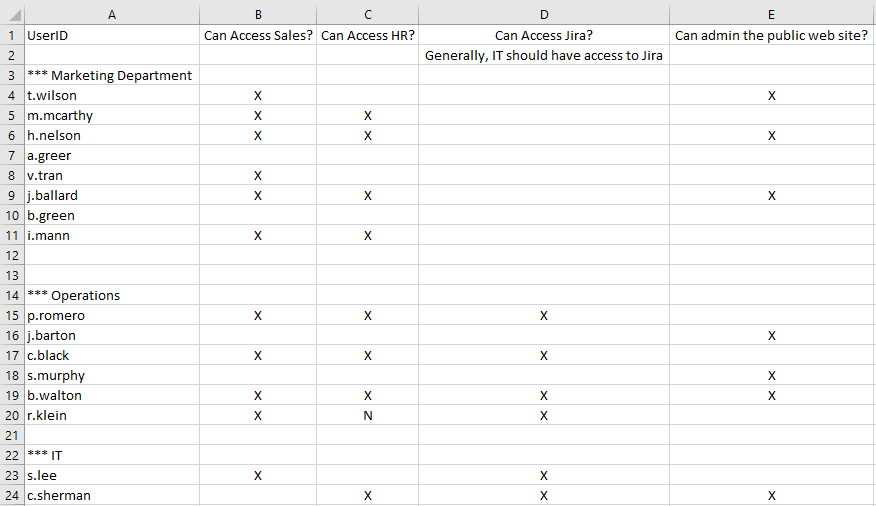
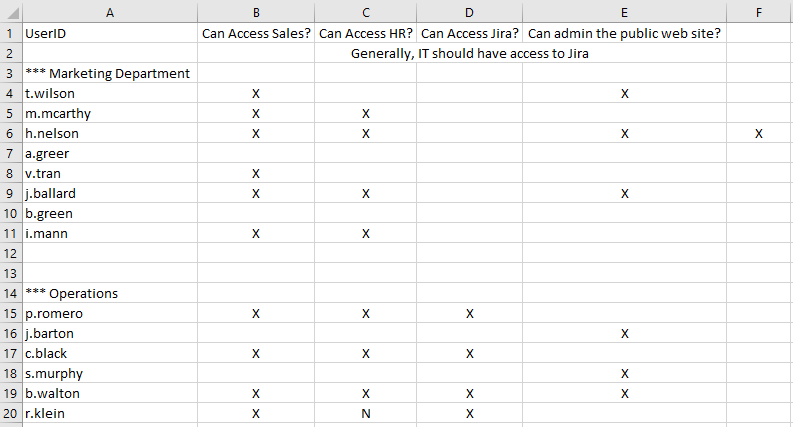
Properly deal with unknown permissions in the refactoring exercise

diff --git a/src/main/java/solutions/refactoring/AwfulScriptGeneratorRefactoredStep3.java b/src/main/java/solutions/refactoring/AwfulScriptGeneratorRefactoredStep3.java
@@ -1,6 +1,7 @@
 package solutions.refactoring;
 
 import java.util.List;
+import java.util.Optional;
 import java.util.stream.Collectors;
 import java.util.stream.Stream;
 
@@ -43,11 +44,13 @@ public class AwfulScriptGeneratorRefactoredStep3 implements ScriptGenerator {
     private Stream<String> getInsertStatementsForRow(Row row, String userId) {
         return Utils.stream(row)
                 .skip(1)
-                .filter(this::hasAuthority)
-                .map(c -> getInsertStatementForCell(userId, c));
+                .filter(this::hasAuthority)  // Stream<String>
+                .map(c -> getInsertStatementForCell(userId, c)) // Stream<Optional<String>>
+                .filter(Optional::isPresent)  // filter out empties, still Stream<Optional<String>>
+                .map(Optional::get);  // Stream<String>
     }
 
-    private String getInsertStatementForCell(String userId, Cell cell) {
+    private Optional<String> getInsertStatementForCell(String userId, Cell cell) {
         String answer = null;
         switch (cell.getColumnIndex()) {
         case 1:
@@ -64,7 +67,7 @@ public class AwfulScriptGeneratorRefactoredStep3 implements ScriptGenerator {
             break;
         }
         
-        return answer;
+        return Optional.ofNullable(answer);
     }
     
     private boolean hasAuthority(Cell cell) {

diff --git a/src/main/java/solutions/refactoring/AwfulScriptGeneratorRefactoredStep4.java b/src/main/java/solutions/refactoring/AwfulScriptGeneratorRefactoredStep4.java
@@ -1,6 +1,7 @@
 package solutions.refactoring;
 
 import java.util.List;
+import java.util.Optional;
 import java.util.stream.Collectors;
 import java.util.stream.Stream;
 
@@ -39,10 +40,12 @@ public class AwfulScriptGeneratorRefactoredStep4 implements ScriptGenerator {
         return Utils.stream(row)
                 .skip(1)
                 .filter(this::hasAuthority)
-                .map(c -> getInsertStatementForCell(userId, c));
+                .map(c -> getInsertStatementForCell(userId, c))
+                .filter(Optional::isPresent)
+                .map(Optional::get);
     }
 
-    private String getInsertStatementForCell(String userId, Cell cell) {
+    private Optional<String> getInsertStatementForCell(String userId, Cell cell) {
         String answer = null;
         switch (cell.getColumnIndex()) {
         case 1:
@@ -59,7 +62,7 @@ public class AwfulScriptGeneratorRefactoredStep4 implements ScriptGenerator {
             break;
         }
         
-        return answer;
+        return Optional.ofNullable(answer);
     }
     
     private boolean hasValidUserId(Row row) {

diff --git a/src/main/java/solutions/refactoring/AwfulScriptGeneratorRefactoredStep2.java b/src/main/java/solutions/refactoring/AwfulScriptGeneratorRefactoredStep2.java
@@ -2,6 +2,7 @@ package solutions.refactoring;
 
 import java.util.ArrayList;
 import java.util.List;
+import java.util.Optional;
 
 import org.apache.poi.ss.usermodel.Cell;
 import org.apache.poi.ss.usermodel.Row;
@@ -52,13 +53,13 @@ public class AwfulScriptGeneratorRefactoredStep2 implements ScriptGenerator {
             }
 
             if (hasAuthority(cell)) {
-                lines.add(getInsertStatementForCell(userId, cell));
+                getInsertStatementForCell(userId, cell).ifPresent(st -> lines.add(st));
             }
         }
         return lines;
     }
 
-    private String getInsertStatementForCell(String userId, Cell cell) {
+    private Optional<String> getInsertStatementForCell(String userId, Cell cell) {
         String answer = null;
         switch (cell.getColumnIndex()) {
         case 1:
@@ -75,7 +76,7 @@ public class AwfulScriptGeneratorRefactoredStep2 implements ScriptGenerator {
             break;
         }
         
-        return answer;
+        return Optional.ofNullable(answer);
     }
     
     private boolean hasAuthority(Cell cell) {

diff --git a/src/main/java/solutions/refactoring/AwfulScriptGeneratorRefactoredStep5.java b/src/main/java/solutions/refactoring/AwfulScriptGeneratorRefactoredStep5.java
@@ -39,10 +39,12 @@ public class AwfulScriptGeneratorRefactoredStep5 implements ScriptGenerator {
         return Utils.stream(row)
                 .skip(1)
                 .filter(this::hasAuthority)
-                .map(c -> getInsertStatementForCell(userId, c));
+                .map(c -> getInsertStatementForCell(userId, c))
+                .filter(Optional::isPresent)
+                .map(Optional::get);
     }
 
-    private String getInsertStatementForCell(String userId, Cell cell) {
+    private Optional<String> getInsertStatementForCell(String userId, Cell cell) {
         String answer = null;
         switch (cell.getColumnIndex()) {
         case 1:
@@ -59,7 +61,7 @@ public class AwfulScriptGeneratorRefactoredStep5 implements ScriptGenerator {
             break;
         }
         
-        return answer;
+        return Optional.ofNullable(answer);
     }
     
     private Optional<Cell> getFirstCell(Row row) {

diff --git a/src/main/java/solutions/refactoring/AwfulScriptGeneratorRefactoredStep6.java b/src/main/java/solutions/refactoring/AwfulScriptGeneratorRefactoredStep6.java
@@ -56,11 +56,14 @@ public class AwfulScriptGeneratorRefactoredStep6 implements ScriptGenerator {
         return Utils.stream(row)
                 .skip(1)
                 .filter(this::hasAuthority)
-                .map(c -> getInsertStatementForCell(userId, c));
+                .map(c -> getInsertStatementForCell(userId, c))
+                .filter(Optional::isPresent)
+                .map(Optional::get);
     }
 
-    private String getInsertStatementForCell(String userId, Cell cell) {
-        return insertBuilderForCells.get(cell.getColumnIndex()).apply(userId);
+    private Optional<String> getInsertStatementForCell(String userId, Cell cell) {
+        return Optional.ofNullable(insertBuilderForCells.get(cell.getColumnIndex()))
+                .map(f -> f.apply(userId));
     }
     
     private Optional<Cell> getFirstCell(Row row) {

diff --git a/docs/refactoringExercise.md b/docs/refactoringExercise.md
@@ -30,7 +30,7 @@ Our product owner created a spreadsheet containing information about which user 
 As you can see, the spreadsheet isn't completely consistent.  However, we did notice the following:
 
 1. If the first column of a row contains a String with a "." in the second position, then it is a row with user information
-2. If columns 2 - 5 contain an "X", then the user should have access to the application
+2. If columns B - E contain an "X", then the user should have access to the application. I don't know what's going on with column F :)
 
 We also know the column to application mappings:
 
@@ -55,13 +55,15 @@ If you get stuck along the way, the solutions for each step are in `src/main/jav
 
[1 lines of base64/hex data omitted]
 
-   - Change the `void addInsertStatementForCell(List, String, Cell)` method to `String getInsertStatementForCell(String, Cell)`
-   - Change the `void addInsertStatementsForRow(List, Row, String)` method to `List getInsertStatementsForRow(Row, String)`
+   - Change the `void addInsertStatementForCell(List, String, Cell)` method to `Optional<String> getInsertStatementForCell(String, Cell)`
+   - Change the `void addInsertStatementsForRow(List, Row, String)` method to `List getInsertStatementsForRow(Row, String)` - For now use `Optional.ifPresent` to add the statement only if it exists
    - Change the `void addInsertStatementsForRow(List, Row)` method to `List getInsertStatementsForRow(Row)`
 
 3. Look for Stream Opportunities
 
-   - Look at the `List getInsertStatementsForRow(Row, String)` method. This method skips the first cell and then generates a line if there is an authority flag.  This can easily be turned into stream operation with `skip`, `filter` and `map`.  The new method should only be one line and should return `Stream<String>`. Note: you can use the `utilities.Utils.stream` method to stream the cells from the row.  Row is Iterable, but there is no built in JDK method to turn an Iterable into a Stream. 
+   - Look at the `List getInsertStatementsForRow(Row, String)` method. This method skips the first cell and then generates a line if there is an authority flag.  This can easily be turned into stream operation with `skip`, `filter` and `map`.  The new method should only be one line and should return `Stream<String>`. Note: 
+      - You can use the `utilities.Utils.stream` method to stream the cells from the row.  Row is Iterable, but there is no built in JDK method to turn an Iterable into a Stream
+      - You can use a construct like `.filter(Optional::isPresent).map(Optional::get)` to deal with the `Optional<String>` returned from `getInsertStatementForCell`.
    - Look at the `List getInsertStatementsForRow(Row)` method.  This method returns statements for a row if there is a valid user ID, or an empty list.  We'll work on making this cleaner in the following step, but for now change the method to return `Stream<String>` and return either the stream from the method changed above, or `Stream.empty()`
    - Look at the `List generate(Sheet)` generate method.  This method can be changed to stream the rows from the Sheet, flatten all the subsequent streams, and collect the result into a list to return.  Again, use the `utilities.Utils.stream` method to stream the rows from the sheet and the new method should only be one line long.
 
@@ -88,4 +90,4 @@ If you get stuck along the way, the solutions for each step are in `src/main/jav
    - Delete the `getInsertStatement` function.  Make a `static BiFunction<String, Integer, String> insertBuilder` member variable that does the same thing as the old `getInsertStatement` method
    - Make a `static Map<Integer, Function<String, String>> insertBuilderForCells` that will contain new functions for each of the different columns in a row
    - Use a static initializer to setup the Map.  For example, `insertBuilderForCells.put(1, userId -> insertBuilder.apply(userId, 2237));`
-   - Change the `String getInsertStatementForCell(String, Cell)` method to remove the switch statement and call the functions from the map
+   - Change the `Optional<String> getInsertStatementForCell(String, Cell)` method to remove the switch statement and call the functions from the map.  You will need to check to see if the map contains a function for the row.  You can do this with a simple `if` statement, or you can wrap the returned value in an Optional and use `Optional.map`
